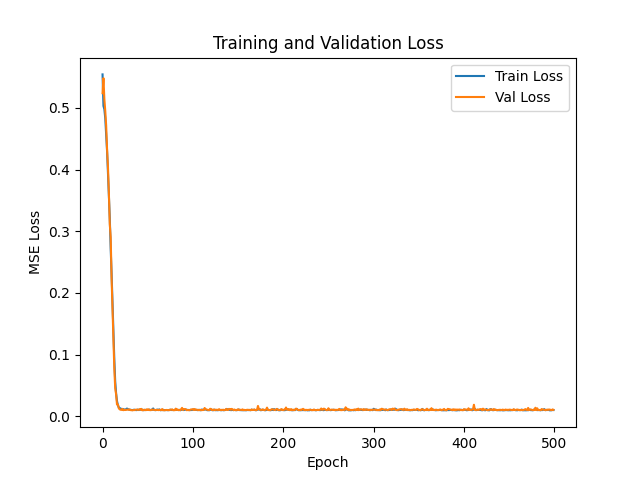
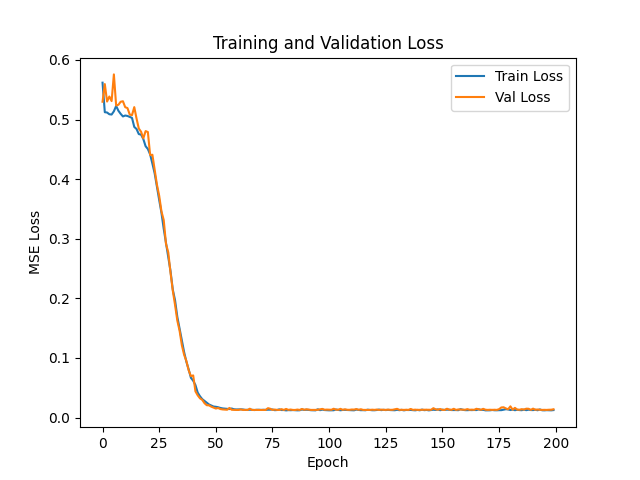
fix: Architecture

diff --git a/train_cosine.py b/train_cosine.py
@@ -20,20 +20,19 @@ x_train, y_train = x[:600], y[:600]
 x_val,   y_val   = x[600:800], y[600:800]
 x_test,  y_test  = x[800:], y[800:]
 
-# 2. Model Definition
+# 2. Model Definition - exact spec: Dense(16)->Dense(16)->Dense(1)
 model = keras.Sequential([
-    keras.layers.Dense(32, activation='relu', input_shape=(1,)),
-    keras.layers.Dense(32, activation='relu'),
+    keras.layers.Dense(16, activation='relu', input_shape=(1,)),
     keras.layers.Dense(16, activation='relu'),
     keras.layers.Dense(1)
 ])
-model.compile(optimizer=keras.optimizers.Adam(learning_rate=0.001), loss='mse')
+model.compile(optimizer='adam', loss='mse')
 model.summary()
 
-# 3. Training
+# 3. Training - 200 epochs as per spec
 history = model.fit(
     x_train, y_train,
-    epochs=500,
+    epochs=200,
     batch_size=32,
     validation_data=(x_val, y_val),
     verbose=1
@@ -52,12 +51,15 @@ plt.close()
 print("Loss curve saved.")
 
 # 5. Evaluation
-mse, = model.evaluate(x_test, y_test, verbose=0), 
 y_pred = model.predict(x_test, verbose=0).flatten()
-mae = np.mean(np.abs(y_pred - y_test))
-mse_val = np.mean((y_pred - y_test) ** 2)
+mae = float(np.mean(np.abs(y_pred - y_test)))
+mse_val = float(np.mean((y_pred - y_test) ** 2))
 print(f"Test MSE: {mse_val:.4f}")
 print(f"Test MAE: {mae:.4f}")
+
+y_clean = np.cos(x_test)
+mae_vs_cos = float(np.mean(np.abs(y_pred - y_clean)))
+print(f"Test MAE vs cos(x) (no noise): {mae_vs_cos:.4f}")
 
 # 6. Prediction Plot
 x_dense = np.linspace(0, 2 * np.pi, 500)
